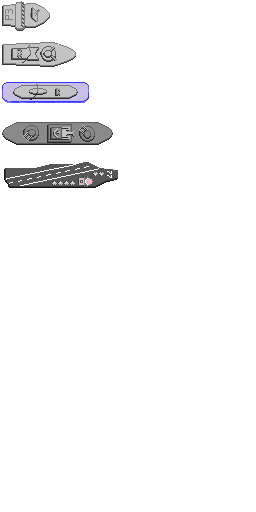
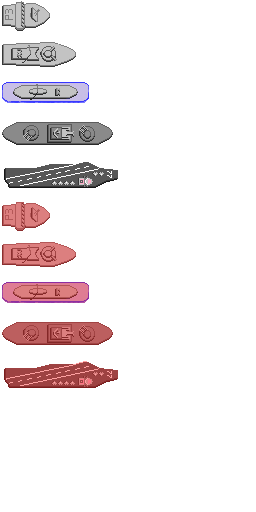
some render updates to ship placement

Changed region(s): [[0.0, 0.625, 0.4688, 0.7812], [0.0, 0.375, 0.3438, 0.5938]]

diff --git a/Battleship/src/com/me/battleship/Drawer.java b/Battleship/src/com/me/battleship/Drawer.java
@@ -24,7 +24,7 @@ public class Drawer {
     private Properties props = new Properties();
     private int screenWidth, screenHeight, tileSize;
     private Texture tileTexture, selectedTileTexture[];
-    private TextureRegion cruiser, patrol, battleship, submarine, carrier;
+    private TextureRegion[] cruiser, patrol, battleship, submarine, carrier;
     private Button rotateRegion, autoButton;
 
     public Drawer(Board board, Button rotateRegion, Button autoButton) {
@@ -60,7 +60,7 @@ public class Drawer {
 
     }
 
-    public void drawSetup() {
+    public void drawSetup(Ship selectedShip) {
 
         Gdx.gl.glClear(GL10.GL_COLOR_BUFFER_BIT);
 
@@ -101,41 +101,23 @@ public class Drawer {
         // draw the ships
         for (Ship ship : board.getShips()) {
             TextureRegion shipTexture;
-            int orientationOrdinal = ship.getOrientation().getOrdinal();
-            switch (ship.getShipClass()) {
-            // TODO
-            case PATROL:
-                shipTexture = patrol;
-                break;
-            case CRUISER:
-                shipTexture = cruiser;
-                break;
-            case SUBMARINE:
-                shipTexture = submarine;
-                break;
-            case BATTLESHIP:
-                shipTexture = battleship;
-                break;
-            case CARRIER:
-            default:
-                shipTexture = carrier;
-                break;
+            if (ship == selectedShip) {
+                continue;
             }
-            switch (ship.getOrientation()) {
-            case HORIZONTAL:
-                batch.draw(shipTexture, ship.topLeft.x, ship.topLeft.y, ship.dimensions.x, ship.dimensions.y);
-                break;
-            case VERTICAL:
-            default:
-                Vector2 o_dim = ship.getOrigDimensions();
-                batch.draw(shipTexture, ship.center.x - o_dim.x / 2, ship.center.y - o_dim.y / 2, o_dim.x / 2,
-                        o_dim.y / 2, o_dim.x, o_dim.y, 1f, 1f, 90f);
-                break;
-            }
-
-            // draw selected
-
+            shipTexture = getShipTexture(ship, 0);
+            drawShip(ship, shipTexture);
         }
+
+        if (selectedShip != null) {
+            TextureRegion shipTexture;
+            if (board.validShipPlacement) {
+                shipTexture = getShipTexture(selectedShip, 0);
+            } else {
+                shipTexture = getShipTexture(selectedShip, 1);
+            }
+            drawShip(selectedShip, shipTexture);
+        }
+
         batch.end();
     }
 
@@ -172,11 +154,16 @@ public class Drawer {
 
         Texture shipTextures;
         shipTextures = new Texture(Gdx.files.internal(props.getProperty("texture.ships")));
-        patrol = textureFlipper(new TextureRegion(shipTextures, 0, 0, 52, 32));
-        cruiser = textureFlipper(new TextureRegion(shipTextures, 0, 40, 78, 28));
-        submarine = textureFlipper(new TextureRegion(shipTextures, 0, 80, 91, 25));
-        battleship = textureFlipper(new TextureRegion(shipTextures, 0, 120, 116, 27));
-        carrier = textureFlipper(new TextureRegion(shipTextures, 0, 160, 123, 31));
+        patrol = textureFlipper(new TextureRegion(shipTextures, 0, 0, 52, 32), new TextureRegion(shipTextures, 0, 200,
+                52, 32));
+        cruiser = textureFlipper(new TextureRegion(shipTextures, 0, 40, 78, 28), new TextureRegion(shipTextures, 0,
+                240, 78, 28));
+        submarine = textureFlipper(new TextureRegion(shipTextures, 0, 80, 91, 25), new TextureRegion(shipTextures, 0,
+                280, 91, 25));
+        battleship = textureFlipper(new TextureRegion(shipTextures, 0, 120, 116, 27), new TextureRegion(shipTextures,
+                0, 320, 116, 27));
+        carrier = textureFlipper(new TextureRegion(shipTextures, 0, 160, 123, 31), new TextureRegion(shipTextures, 0,
+                360, 123, 31));
         // TODO
 
         tileTexture = new Texture(Gdx.files.internal(props.getProperty("texture.tile.empty")));
@@ -196,4 +183,34 @@ public class Drawer {
         return texture;
     }
 
+    private TextureRegion getShipTexture(Ship s, int color) {
+        switch (s.getShipClass()) {
+        // TODO
+        case PATROL:
+            return patrol[color];
+        case CRUISER:
+            return cruiser[color];
+        case SUBMARINE:
+            return submarine[color];
+        case BATTLESHIP:
+            return battleship[color];
+        case CARRIER:
+        default:
+            return carrier[color];
+        }
+    }
+
+    private void drawShip(Ship ship, TextureRegion shipTexture) {
+        switch (ship.getOrientation()) {
+        case HORIZONTAL:
+            batch.draw(shipTexture, ship.topLeft.x, ship.topLeft.y, ship.dimensions.x, ship.dimensions.y);
+            break;
+        case VERTICAL:
+        default:
+            Vector2 o_dim = ship.getOrigDimensions();
+            batch.draw(shipTexture, ship.center.x - o_dim.x / 2, ship.center.y - o_dim.y / 2, o_dim.x / 2, o_dim.y / 2,
+                    o_dim.x, o_dim.y, 1f, 1f, 90f);
+            break;
+        }
+    }
 }

diff --git a/Battleship/src/com/me/battleship/Board.java b/Battleship/src/com/me/battleship/Board.java
@@ -129,12 +129,14 @@ public class Board extends BaseObject {
                 validShipPlacement = true;
                 for (int i = 0; i < s.getShipClass().getLength(); i++) {
 
-                    if (length + ship_length_offset >= 0 && length + ship_length_offset < getSize()
-                            && myGrid[length + ship_length_offset][width] == 0) {
+                    if (length + ship_length_offset >= 0 && length + ship_length_offset < getSize()) {
 
                         getOnSquares()[i].x = length + ship_length_offset;
                         getOnSquares()[i].y = width;
                         getActiveSquares()[i] = true;
+                        if (myGrid[length + ship_length_offset][width] != 0) {
+                            validShipPlacement = false;
+                        }
 
                     } else {
                         getActiveSquares()[i] = false;
@@ -156,12 +158,14 @@ public class Board extends BaseObject {
             if (x >= min_bound && x < max_bound) {
                 validShipPlacement = true;
                 for (int i = 0; i < s.getShipClass().getLength(); i++) {
-                    if (length + ship_length_offset >= 0 && length + ship_length_offset < getSize()
-                            && myGrid[width][length + ship_length_offset] == 0) {
+                    if (length + ship_length_offset >= 0 && length + ship_length_offset < getSize()) {
 
                         getOnSquares()[i].x = width;
                         getOnSquares()[i].y = length + ship_length_offset;
                         getActiveSquares()[i] = true;
+                        if (myGrid[width][length + ship_length_offset] != 0) {
+                            validShipPlacement = false;
+                        }
 
                     } else {
                         getActiveSquares()[i] = false;
@@ -216,13 +220,13 @@ public class Board extends BaseObject {
             validShipPlacement = false;
             while (!validShipPlacement) {
                 removeShipIfOnGrid(ship);
-                if (Math.random() > .5){
+                if (Math.random() > .5) {
                     ship.changeOrientation();
                 }
-                int x = (int)((getBotX() - getTopX()) * Math.random()+getTopX());
-                int y = (int)((getBotY() - getTopY()) * Math.random()+getTopY());
-                ship.move(x,y) ;
-                identifySquares(x,y,ship);
+                int x = (int) ((getBotX() - getTopX()) * Math.random() + getTopX());
+                int y = (int) ((getBotY() - getTopY()) * Math.random() + getTopY());
+                ship.move(x, y);
+                identifySquares(x, y, ship);
             }
             centerShipOnSquare(ship);
             placeShipOnGrid(ship);

diff --git a/Battleship/src/com/me/battleship/Battleship.java b/Battleship/src/com/me/battleship/Battleship.java
@@ -57,7 +57,7 @@ public class Battleship implements ApplicationListener, InputProcessor {
     public void render() {
         Gdx.gl.glClearColor(1, 1, 1, 1);
         Gdx.gl.glClear(GL10.GL_COLOR_BUFFER_BIT);
-        drawer.drawSetup();
+        drawer.drawSetup(selectedShip);
     }
 
     @Override
@@ -103,7 +103,7 @@ public class Battleship implements ApplicationListener, InputProcessor {
             player1.removeShipIfOnGrid(selectedShip);
             selectedShip.reset();
             player1.deselectSquares();
-        } else if (selectedShip == null && Globals.isInside(x, y, autoButton)){
+        } else if (selectedShip == null && Globals.isInside(x, y, autoButton)) {
             player1.autoPlace();
         } else {
             for (int i = 0; i < player1.ships.size(); i++)
